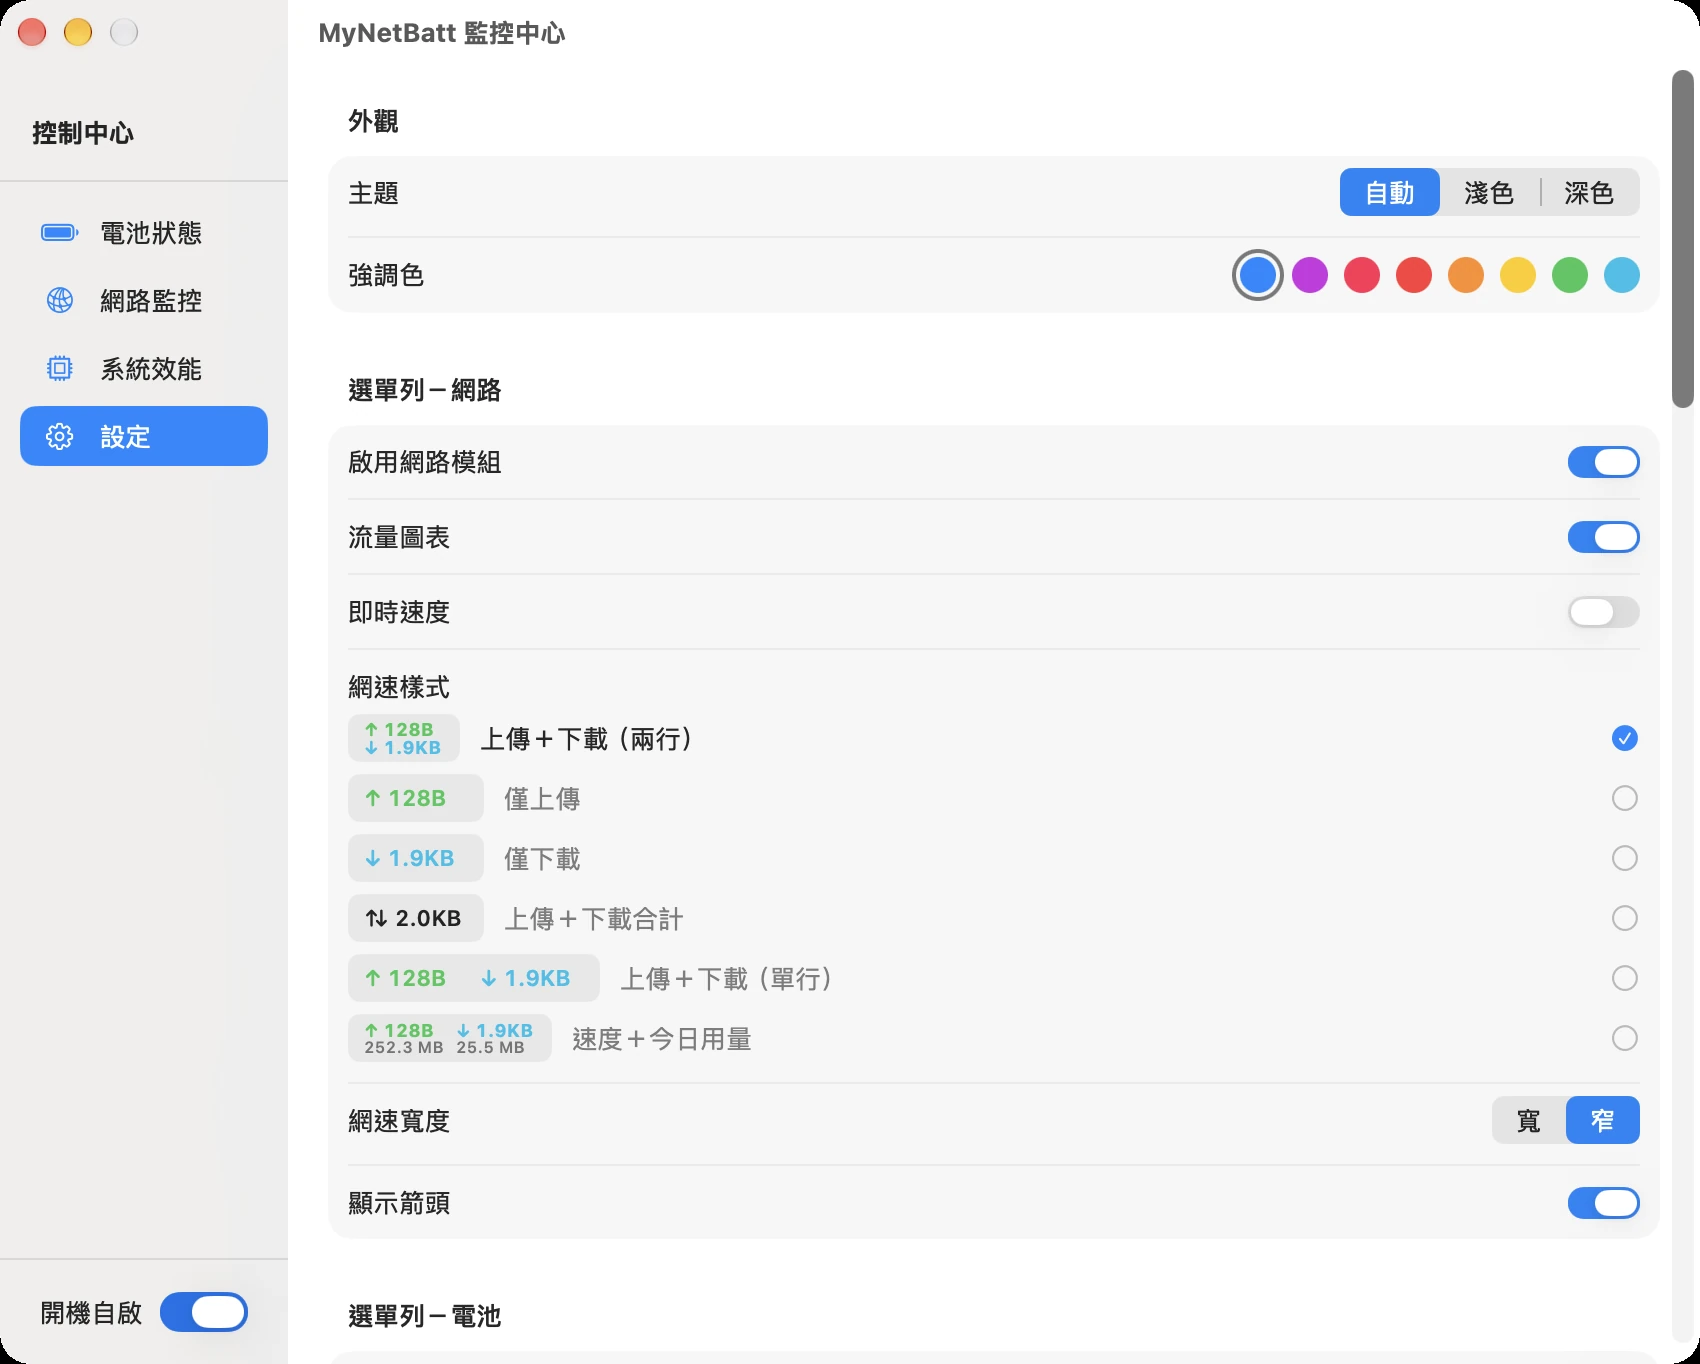
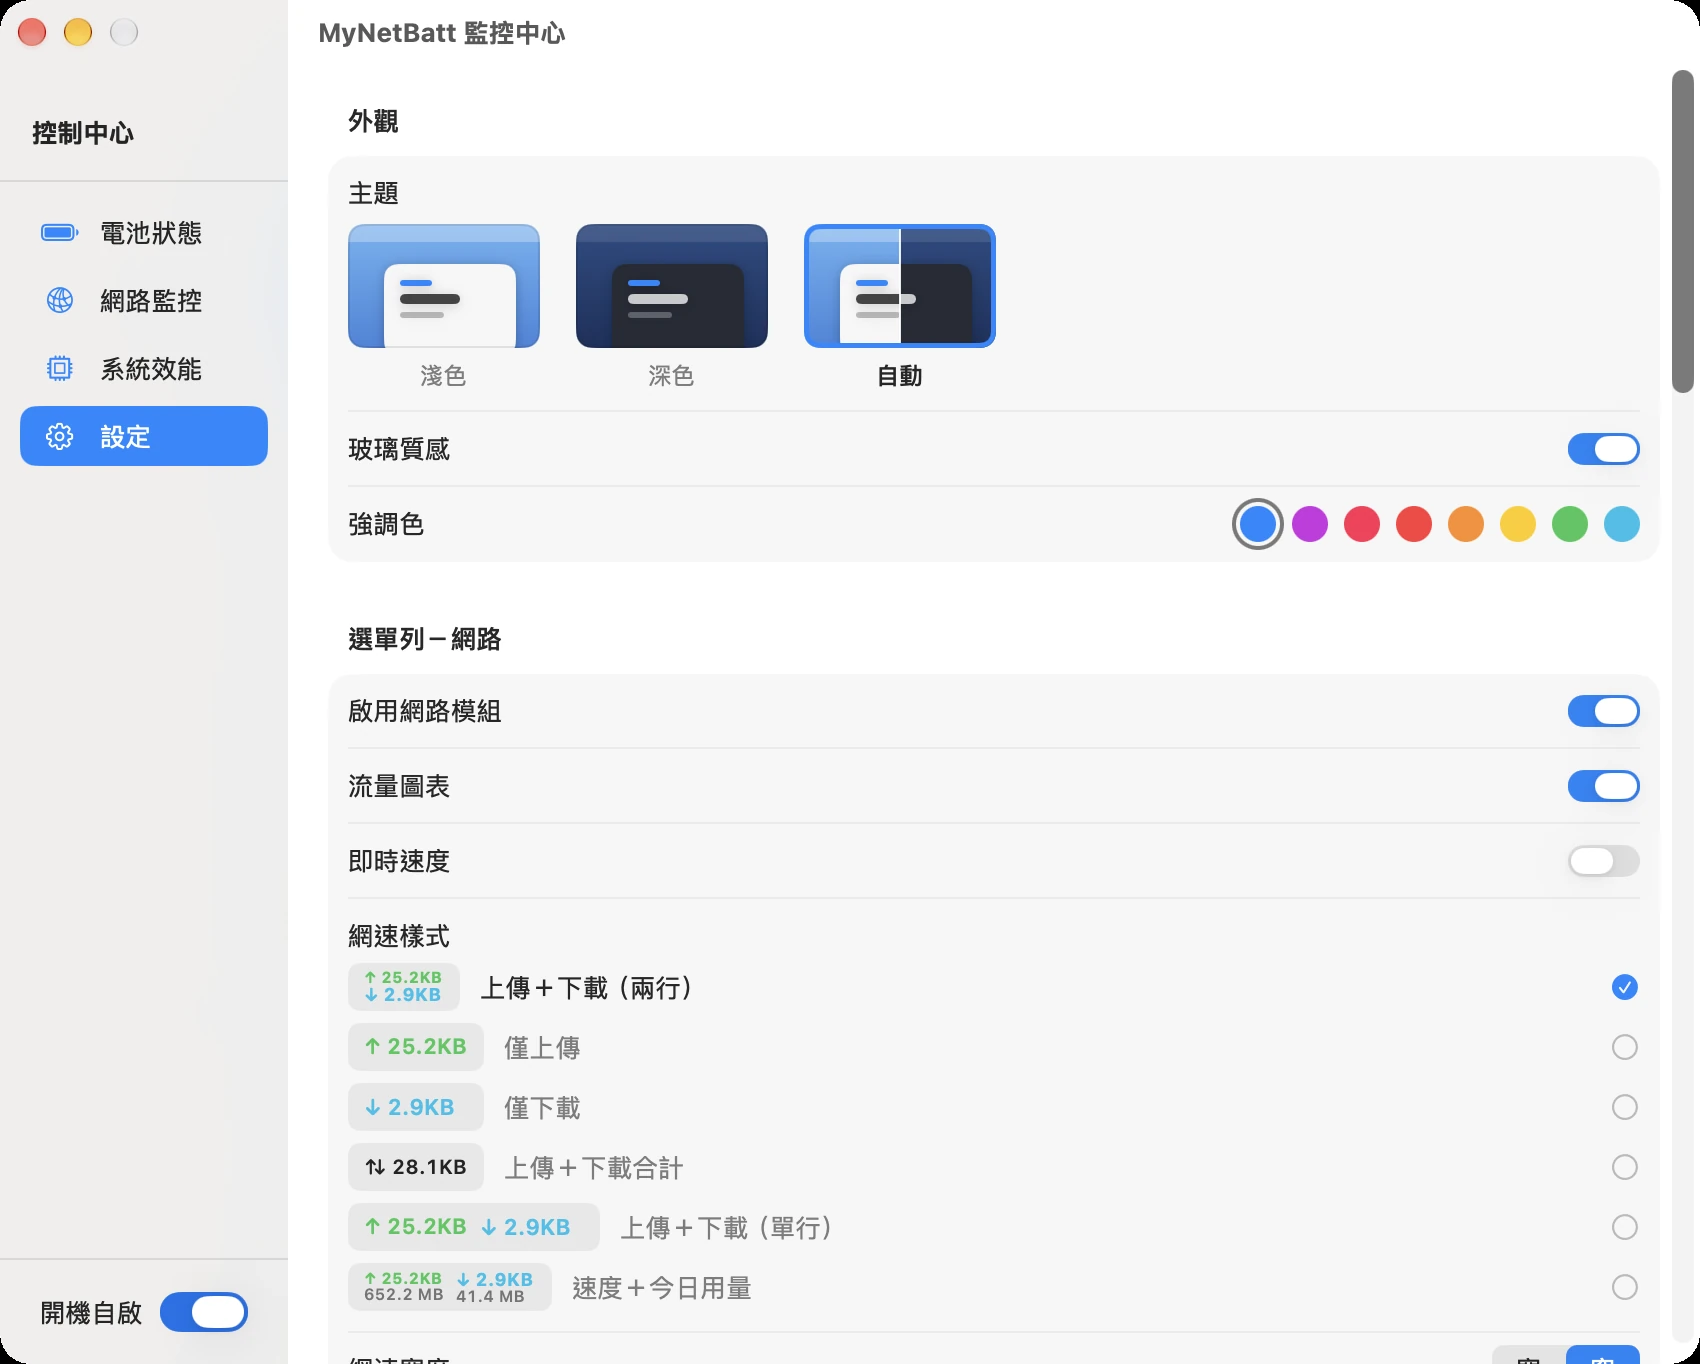
Release MyNetBatt 3.7.1

diff --git a/README.en.md b/README.en.md
@@ -10,7 +10,7 @@
 
 MyNetBatt is a native macOS menu bar system monitor that brings battery, network, and system performance information together in a clean SwiftUI interface.
 
-> Current version: 3.7 · Interface language: Traditional Chinese
+> Current version: 3.7.1 · Interface language: Traditional Chinese
 
 For release highlights and fixes, see the [changelog](CHANGELOG.en.md) or [GitHub Releases](https://github.com/stone5202/MyNetBatt/releases). The changelog is also available in [Traditional Chinese](CHANGELOG.md).
 
@@ -60,11 +60,11 @@ MyNetBatt is under active development and maintenance. Its complete source code 
 - Wi-Fi channel, signal strength, transmit rate, and security
 - Daily, weekly, monthly, and yearly network usage per app (helpers and other child processes count towards the app that owns them, and other processes can optionally be listed separately), with upload and download counted separately and a history chart; tracking can be paused
 - Live list of apps currently using the network
-- Always-on-top float window that can be toggled with a global shortcut
+- Always-on-top float window that can be toggled with a global shortcut, with adjustable background opacity
 - Configurable sections in the network and battery popovers
 - CPU, GPU, memory (including memory pressure), swap, and storage monitoring, with an eject button for external volumes
 - Thunderbolt, USB4, and USB device information
-- Theme (auto, light, dark) and accent color
+- Theme (auto, light, dark), glass style, and accent color
 - Automatic monitoring refresh after waking from sleep
 - Launch-at-login support
 

diff --git a/README.md b/README.md
@@ -10,7 +10,7 @@
 
 MyNetBatt 是一款原生 macOS 選單列系統監控工具，將電池、網路與系統效能資訊集中在簡潔的 SwiftUI 介面中。
 
-> 目前版本：3.7 · 介面語言：繁體中文
+> 目前版本：3.7.1 · 介面語言：繁體中文
 
 各版本的功能更新與修正請參閱 [更新紀錄](CHANGELOG.md) 或 [GitHub Releases](https://github.com/stone5202/MyNetBatt/releases)。更新紀錄也提供[英文版本](CHANGELOG.en.md)。
 
@@ -60,11 +60,11 @@ MyNetBatt 目前持續開發與維護中，專案完整原始碼以 MIT License 
 - Wi‑Fi 頻道、訊號強度、傳輸率與安全性
 - 每個 App 的日、週、月、年網路用量統計（Helper 等附屬程序算在所屬的 App 上，可選擇是否另外列出其他程序），上傳與下載分開計算，並提供歷史長條圖；可暫停記錄
 - 即時列出正在使用網路的 App
-- 永遠置頂的懸浮視窗，可用全域快捷鍵開關
+- 永遠置頂的懸浮視窗，可用全域快捷鍵開關，背景不透明度可調整
 - 可自訂網路與電池小視窗要顯示的區塊
 - CPU、GPU、記憶體（含記憶體壓力）、Swap 與儲存空間監控，可直接退出外接磁碟
 - Thunderbolt、USB4 與 USB 裝置資訊
-- 主題（自動／淺色／深色）與強調色
+- 主題（自動／淺色／深色）、玻璃質感與強調色
 - 睡眠喚醒後自動重新整理監控資料
 - 支援登入時自動啟動
 

diff --git a/CHANGELOG.en.md b/CHANGELOG.en.md
@@ -4,6 +4,17 @@
 
 This document summarizes the major changes in each MyNetBatt release. Versions before 3.0 were uploaded by replacing earlier copies, so their original per-version Git history can no longer be fully recovered. Changes from 1.0 through 2.x are therefore consolidated from the source code that can still be verified, without attributing uncertain details to individual releases.
 
+## [3.7.1] - 2026-10-05
+
+### New features
+
+- New "glass style" appearance option: the network and battery popovers, their cards, and the float window use the system glass material. It works with the light, dark, and auto themes and is off by default.
+- The theme is now picked from light, dark, and auto thumbnails in Settings.
+
+### Improvements
+
+- The float window's opacity now only affects its background, so text and icons stay fully opaque; the range is widened to 0%–100%.
+
 ## [3.7] - 2026-10-05
 
 ### New features

diff --git a/CHANGELOG.md b/CHANGELOG.md
@@ -4,6 +4,17 @@
 
 本文件整理 MyNetBatt 的主要版本變更。3.0 以前的版本曾以覆蓋方式上傳，原始逐版 Git 紀錄已無法完整還原，因此 1.0～2.x 依目前仍可驗證的程式內容合併記錄，避免為個別小版本編造不確定的差異。
 
+## [3.7.1] - 2026-10-05
+
+### 新功能
+
+- 外觀新增「玻璃質感」：網路與電池小視窗、其中的卡片以及懸浮視窗改用系統的玻璃材質，可搭配淺色、深色或自動主題；預設關閉。
+- 設定頁的主題改以淺色、深色、自動三張縮圖選取。
+
+### 調整
+
+- 懸浮視窗的不透明度只作用在背景，文字與圖示維持不變；可調整的範圍放寬為 0%–100%。
+
 ## [3.7] - 2026-10-05
 
 ### 新功能
